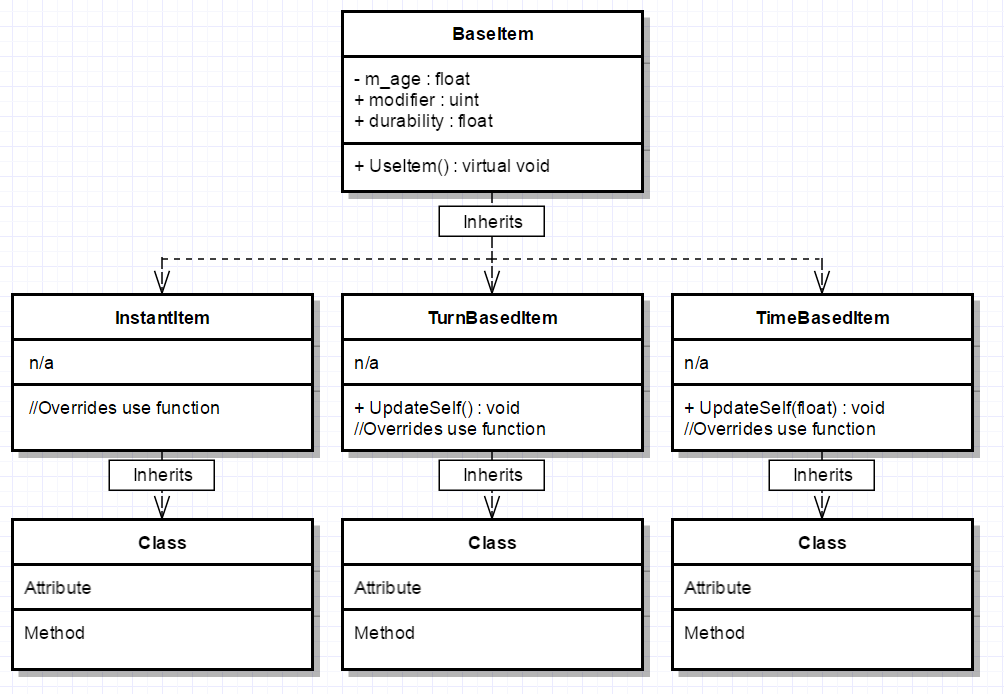
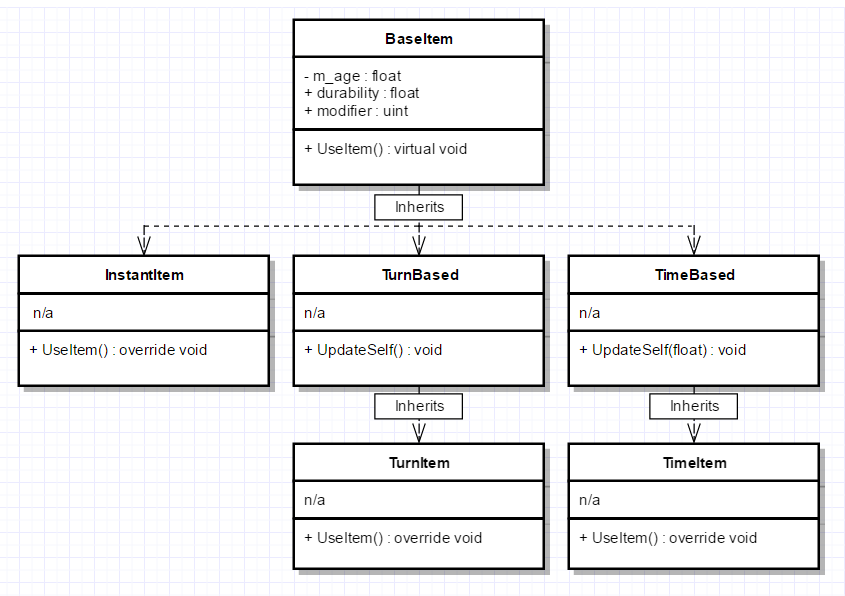
BaseItem UML and Script Update Commit
Updated uml to version 14, added comments to script.

Changed region(s): [[0.0, 0.0, 0.9846, 0.9966]]

diff --git a/Assets/Scripts/BaseItem.cs b/Assets/Scripts/BaseItem.cs
@@ -15,62 +15,98 @@ public class BaseItem
 {
     private float m_age; //current durabilities max value.
 
-    public float durability = 0; //how long the item will last.
+    public float durability; //how long the item will last.
     public uint modifier; //value that will "modify" player attribute(s).
 
-    public virtual void UseItem() { }
+    public virtual void UseItem()
+    {
+        
+    }
 }
 
-//[Serializable]
+[Serializable]
+public class InstantItem : BaseItem 
+{
+    //instant item idea: heal up item.
+    //will "restore" the player's missing health value, but not fully.
+    //effect will be instant, no lasting/timed effect.
+
+    //instant item idea: instant attack item.
+    //will attack the enemy for a set amount of damage.
+    //effect will be instant, no lasting/timed effect.
+
+    //no attributes
+
+    public override void UseItem()
+    {
+        
+    }
+}
+
+[Serializable]
 public class TurnBased : BaseItem
 {
+    //these items are based on the amount of turns the player makes during play.
+
+    //no attributes
+
     public void UpdateSelf()
     {
         
     }
 }
 
-//[Serializable]
+[Serializable]
+public class TurnItem : TurnBased
+{
+    //turn item idea: attack increase item.
+    //will raise the player's attack value.
+    //effect will have a lasting/timed effect (based off turns).
+
+    //turn item idea: defense increase item.
+    //will raise the player's defense value.
+    //effect will have a lasting/timed effect (based off turns).
+
+    //no attributes
+
+    public override void UseItem()
+    {
+
+    }
+
+    //public void test()
+    //{
+    //    var test = durability + 1;
+    //}
+}
+
+[Serializable]
 public class TimeBased : BaseItem
 {
-    public void UpdateSelf()
+    //these items are based on a timer when activated by player during play.
+
+    //no attributes
+
+    public void UpdateSelf(float value)
     {
 
     }
 }
 
-//[Serializable]
-public class InstantItemTestClass : BaseItem
+[Serializable]
+public class TimeItem : TimeBased
 {
+    //time item idea: attack increase item.
+    //will raise the player's attack value.
+    //effect will have a lasting/timed effect (based off time).
+
+    //time item idea: defense increase item.
+    //will raise the player's defense value.
+    //effect will have a lasting/timed effect (based off time).
+
+    //no attributes
+
     public override void UseItem()
-    {
-        //Instantly do effect. No lasting effects.
-    }
-}
-
-//[Serializable]
-public class TurnItemTestClass : TurnBased
-{
-    public override void UseItem()
-    {
-        
-    }
-
-    public void test()
-    {
-        var test = durability + 1;
-    }
-}
-
-//[Serializable]
-public class TimeItemTestClass : TimeBased
-{
-    public override void UseItem()
-    {
-
-    }
-
-    public void test()
     {
 
     }
